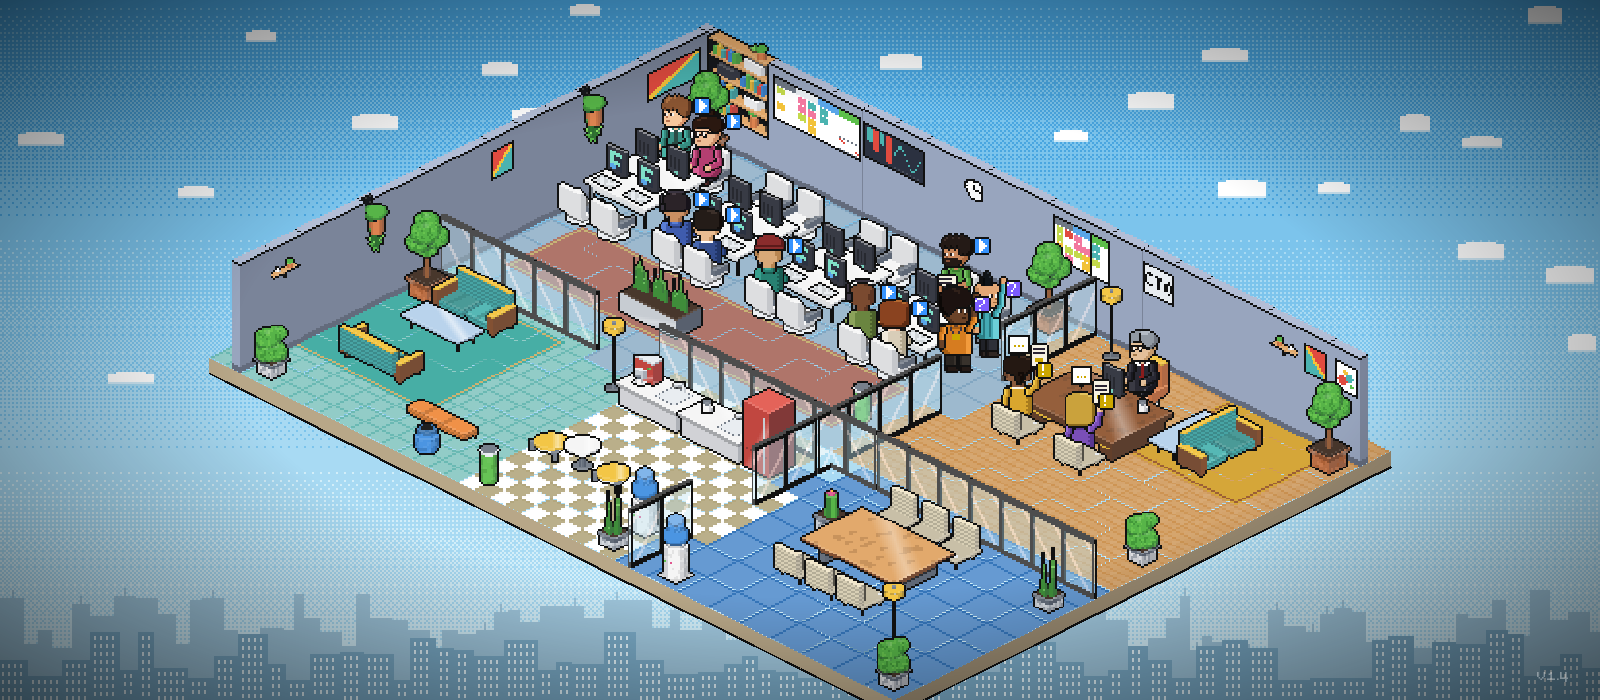
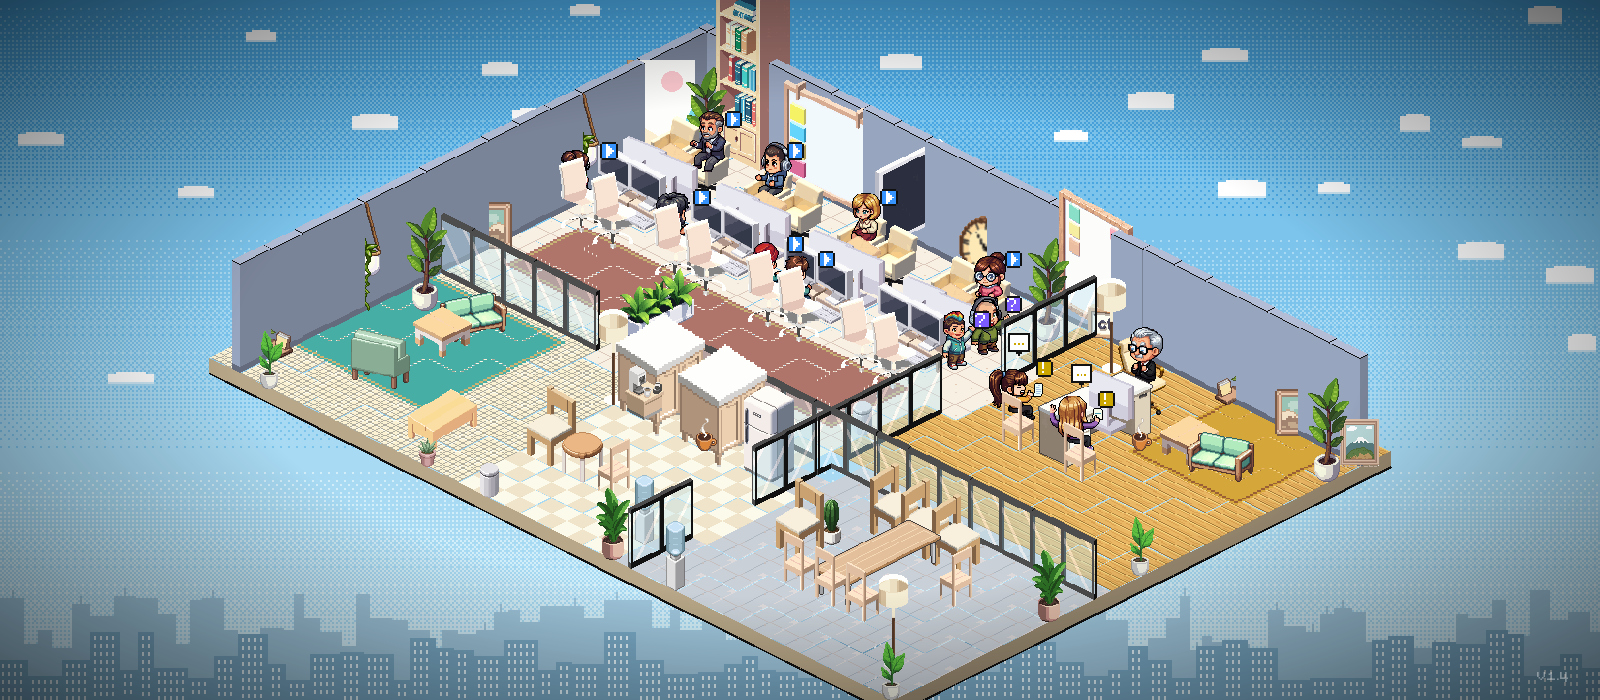
docs: switch the art direction to PixelLab-generated art
Furniture, characters and floors are now generated by PixelLab from
text prompts and seeds recorded in scripts/pixellab/furniture.json,
cast.json and floors.json, not drawn by code or styled after a
reference game. The room shell (walls, floor slab, backdrop) stays
procedural at runtime. Removes every habboassets.com/habbo.com
reference and the Habbo framing from the note, replaces the office
and character reference screenshots, and records the PixelLab
licence decision: the generating account owns its outputs and can
ship them under this repo's MIT licence.

Refs #38

Changed region(s): [[0.125, 0.0, 0.875, 1.0], [0.1562, 0.36, 0.1875, 0.39]]

diff --git a/docs/art-direction.md b/docs/art-direction.md
@@ -6,20 +6,20 @@ The target look for everything drawn in the office: the background, the room she
 
 ## Decisions
 
-- **Everything stays generated from code.** Characters, furniture and floors are written by `scripts/iso-art/` (`npx tsx scripts/iso-art/generate.ts`), the walls, the floor slab and the background are drawn procedurally at runtime (`webview-ui/src/office/isoWalls.ts`, `backdrop.ts`). No hand-drawn sheets and no third-party asset packs: the generator keeps every asset reviewable as a diff, reproducible, and free of licence questions.
-- **The office is a Habbo Hotel room, and no Habbo asset is copied.** Habbo Hotel is the reference for everything on screen: the daylight hotel view behind the room, the thick floor slab and its tile grid, the tall thin wallpapered walls, the glossy chunky furniture, the big-headed figures and the white rounded windows of the client. [habboassets.com](https://www.habboassets.com/) is the reference library because it renders every item at Terrarium's own tile size. It is a community mirror, unaffiliated with Sulake, and the art belongs to Sulake: no Habbo pixel is traced, sampled, downloaded into the repository, shipped in the npm tarball or the Docker image, or fetched at runtime. The references below are looked at, never used as input to a generator.
-- **Daylight.** Habbo's hotel view is a sunny sky over a city, so the night office and its indigo skyline are gone. The room is evenly lit, colours are bright and saturated, and every object is held together by a black line.
+- **Furniture, characters and floors are AI-generated with PixelLab; the room shell is drawn procedurally at runtime.** Each of the 38 furniture ids, each of the 12 workers plus the CTO, and each of the 9 floor materials is generated by [PixelLab](https://pixellab.ai) from a text description and a seed, recorded in `scripts/pixellab/furniture.json`, `scripts/pixellab/cast.json` and `scripts/pixellab/floors.json` respectively, not drawn by code. `scripts/pixellab/generate.ts`, `furniture.ts` and `floors.ts` call PixelLab and pack the raw frames into the bundled sheets. The walls, the floor slab and the background stay procedural at runtime (`webview-ui/src/office/isoWalls.ts`, `backdrop.ts`): no hand-drawn sheets and no third-party asset packs for those either.
+- **Nothing is copied from another game, and nothing is fetched at runtime.** Every generated asset is PixelLab's own output from Terrarium's own prompts, not traced, sampled or styled after a reference image. PixelLab's terms of service give the generating account ownership of its outputs and a commercial licence to them, so the art ships under this repo's own MIT licence, in the npm tarball and the Docker image, with no shim and no attribution requirement beyond PixelLab's own branding in this document.
+- **Cozy modern office.** Light wood tones, white and soft pastel colours, plants, clean minimalist shapes, soft daylight. Furniture and floors share one prompt suffix so every generated item reads as one room; characters share their own suffix so the whole cast reads as one style.
 - **Readable first.** A viewer across the room must tell who is working, who is waiting and who needs approval without reading a badge.
 
 ## Pixel grid and projection
 
-- 2:1 isometric, drawn at **Habbo's normal zoom**: a floor tile is a 64×32 diamond in art pixels. The world keeps its 32×16 grid units, and every sprite is authored at `ART_SCALE` (2) art pixels per world unit and drawn at half size, so the layout, the footprints and the simulation are unchanged while the art gets Habbo's full detail. Heights in world units: desk tops at 12, chair seats at 6, back walls 56 tall, glass partitions 30 (twice that in art pixels).
-- Nearest-neighbour sampling only. No anti-aliasing, no blur, no sub-pixel placement, no smooth gradients. Shading comes in hard bands, and the only blend between two bands is an ordered dither.
-- Every outline and detail is one art pixel, half a world unit, like Habbo's 1 px line at its normal zoom. Never scale a sprite inside its sheet.
+- 2:1 isometric: a floor tile is a 64×32 diamond in art pixels. The world keeps its 32×16 grid units, and every generated sprite is authored at `ART_SCALE` (2) art pixels per world unit and drawn at half size, so the layout, the footprints and the simulation are unchanged while the art carries full PixelLab detail. Heights in world units: desk tops at 12, chair seats at 6, back walls 56 tall, glass partitions 30 (twice that in art pixels).
+- Nearest-neighbour sampling only. No anti-aliasing, no blur, no sub-pixel placement, no smooth gradients. Shading comes in hard bands on the room shell, and PixelLab's own `medium shading` setting on furniture and characters.
+- Every outline and detail is one art pixel, half a world unit. Never scale a sprite inside its sheet.
 
 ## Background
 
-Habbo's hotel view by day, drawn by `backdrop.ts`:
+A sunny sky and a daytime city, drawn by `backdrop.ts`:
 
 - **Sky** in hard horizontal bands, `#4aa6e0` at the top through `#7cc4ec` and `#a8daf3` to `#d2eef9` at the horizon.
 - **Clouds**: flat white `#ffffff` puffs with a `#cfe9f7` underside, stepped like pixel art, never round gradients.
@@ -27,7 +27,7 @@ Habbo's hotel view by day, drawn by `backdrop.ts`:
 
 ## Light
 
-One key light from the screen's upper left, softer than a night interior because the room is daylit.
+One key light from the screen's upper left.
 
 | Surface                                       | Brightness |
 | --------------------------------------------- | ---------- |
@@ -35,27 +35,27 @@ One key light from the screen's upper left, softer than a night interior because
 | Left faces (facing +row, screen lower left)   | 80%        |
 | Right faces (facing +col, screen lower right) | 60%        |
 
-- **Shadows shift toward a cool grey-blue `#2c3446`**, never toward black. Brightness is quantized into bands (`lit()` in `scripts/iso-art/lib/scene.ts`).
-- **Gloss**: Habbo plastic, lacquer and screens carry a white highlight streak or a lighter rim on their top front edges.
+- **Shadows shift toward a cool grey-blue `#2c3446`**, never toward black. The room shell (walls, floor slab, glass partitions) quantizes brightness into hard bands; furniture's shading is PixelLab's own `medium shading` setting instead.
+- **Gloss**: the room shell's lacquered edges carry a white highlight streak or a lighter rim on their top front edges.
 - **Contact shadows**: characters stand on a translucent `#00000033` iso ellipse, furniture casts its traced shadow on the floor.
 
 ## Outline
 
-- **Ink is `#111111`**, Habbo's near-black line. It outlines characters, furniture, badges, bubbles, windows and the floor slab.
-- **Characters** get a full 1 px outline, including the inner line between parts that overlap (an arm over the torso, the shirt hem over the trousers, a hand over a sheet).
-- **Furniture** gets a full 1 px outline: every silhouette pixel is ink. Where one part passes in front of another the edge is a dark line, the colour mixed 65% toward ink. Edges between two faces of the same box are drawn by the light bands.
-- **Floors** draw their tile grid instead of an outline. **Walls** get an ink line along the top edges of the cap.
+- **Ink is `#111111`.** It outlines characters, furniture, badges, bubbles, windows and the floor slab.
+- **Characters** get a full 1 px black outline: PixelLab is generated with `outline: single color black outline`, so the silhouette and the lines between overlapping parts (an arm over the torso, a hand over a held sheet) come out of the model, not hand-drawn.
+- **Furniture** gets a full 1 px outline: PixelLab is generated with `outline: single color outline`, so the silhouette and the lines between overlapping parts come out of the model, not hand-drawn.
+- **Floors** carry each material's own grid (grout, plank seams, brick coursing, checker squares) baked into the PixelLab art instead of a drawn outline. **Walls** get an ink line along the top edges of the cap.
 
 ## Room shell
 
-- **Floor tiles** read as Habbo's grid: every tile is flat colour with a 1 px darker seam along its two upper edges, so the room shows its diamonds. `floor_0`–`floor_8` keep their index-to-material mapping (`floor_0` plain, `floor_1` large pale tile, `floor_2` large tile with dark grout, `floor_3` small tile, `floor_4` wood planks, `floor_5` running-bond brick, `floor_6` aligned brick, `floor_7` fine checkerboard, `floor_8` coarse checkerboard), each flat between its seams, only wood carrying grain. They are generated by `scripts/iso-art/floors.ts`.
-- **Floor slab**: the room stands on an 8 px thick slab, like Habbo's floor edge: the left face a little darker than the floor, the right face darker still, outlined in ink along the bottom.
-- **Back walls** are thin and tall like Habbo's: 56 px high and 4 world units thick, standing on the inner edge of their tile so wall items keep hanging on the same face. Flat wallpaper faces (left face 92%, right face 74% of the wall colour), a narrow cap at 115% with the ink line on its outer top edges, and a 3 px skirting board at 60%.
+- **Floor tiles** read as a grid through each material's own baked-in pattern (grout lines, plank seams, brick coursing, checker squares), projected onto a 64×32 diamond at render time. `floor_0`–`floor_8` keep their index-to-material mapping (`floor_0` plain polished slab, `floor_1` large pale tile, `floor_2` large tile with dark grout, `floor_3` small tile, `floor_4` wood planks, `floor_5` running-bond brick, `floor_6` aligned brick, `floor_7` fine checkerboard, `floor_8` coarse checkerboard). They are [PixelLab](https://pixellab.ai) `tiles-pro` renders, generated and packed by `scripts/pixellab/floors.ts`; a room's `tileColors` entry tints a material with Adjust-mode HSL shifts, or leaves it untouched at `{h:0,s:0,b:0,c:0}`.
+- **Floor slab**: the room stands on an 8 px thick slab: the left face a little darker than the floor, the right face darker still, outlined in ink along the bottom.
+- **Back walls** are thin and tall: 56 px high and 4 world units thick, standing on the inner edge of their tile so wall items keep hanging on the same face. Flat wallpaper faces (left face 92%, right face 74% of the wall colour), a narrow cap at 115% with the ink line on its outer top edges, and a 3 px skirting board at 60%.
 - **Glass partitions** stand 30 px high, an ink frame, a light cyan pane at 40% opacity and a white diagonal sheen.
 
 ## Palette
 
-Base colours are the fully lit tone. Side tones come from the light. Habbo's colours are bright: keep bases light to mid and saturated.
+Base colours are the fully lit tone. Side tones come from the light. Keep bases light to mid and softly saturated, never garish.
 
 | Role                | Colours                                                                           |
 | ------------------- | --------------------------------------------------------------------------------- |
@@ -82,55 +82,54 @@ Base colours are the fully lit tone. Side tones come from the light. Habbo's col
 
 ## Characters
 
-A frame is 64×112 art pixels, Habbo's 64×110 figure frame rounded to an even height. The feet touch the bottom centre of the frame, on a translucent iso ellipse.
+A frame is 96×96 art pixels, sized to fit PixelLab's native 88×88 animation frames with headroom for a raised hand or a held-up form. The feet touch a shared baseline near the bottom of the frame, on a translucent iso ellipse.
 
-**Proportions**, measured on Habbo figures at their normal size: about 80 art px from crown to sole. A big head about 32 px tall including the hair and about 26 px wide, a torso about 30 px including the slanted hem, short legs about 16 px on 4 px shoes. The head and the torso are about the same width: a Habbo figure is a block body under a block head, not a tapering one.
+**Generated, not drawn.** Each of the 12 workers and the CTO is a [PixelLab](https://pixellab.ai) character, not a figure composed from parts: a standing character and a seated state, each generated from a text description (hair, skin tone, build, outfit and a dominant outfit colour distinct from every other worker's), in both `south-west` (DOWN) and `north-east` (UP) facings. The whole cast shares one prompt suffix so the style matches: chunky cute proportions, an oversized round head on a small simple body, a cheerful friendly expression, a cozy modern office worker, clean flat colours, charming pixel art style. `scripts/pixellab/cast.json` records every description, seed and PixelLab character/animation id; `scripts/pixellab/generate.ts` creates and downloads the raw frames and `scripts/pixellab/pack.ts` composes them into the bundled sheets.
 
-**Construction.** The torso is a small iso box, a lit front face and a narrow shaded side face, with sleeves that end in cuffs, and the shirt hem runs down at the iso slope. Arms are about 6 px wide and hang at the sides with skin hands. The legs are two columns, the far one behind, the shoes flat pale iso blocks. The head is turned 3/4 toward where the figure faces: both eyes on that half of the face, each a white with a dark pupil glancing toward the facing side under a hair-coloured brow, a short nose line, a small mouth, the ear on the far side, the jaw narrowing to a chin on the facing side. Skin and cloth shade in hard bands, and hair is a big clumped shape with dark strands and a highlight.
+**Seated pose, no props.** The seated state is PixelLab's own edit of the standing character (`seatedStateEditDescription`): both legs symmetric mirror images, both feet flat on the floor side by side, both knees bent at the same right angle, back straight, facing forward, chair not drawn (the layout's own chair art sits under it). Every seated animation (`type`, `read`, `rest`, `waveSeated`, `holdFormSeated`) keeps that same body and head fixed in place: no new object, no desk, no keyboard, no monitor, no furniture and no held prop ever enters frame, only the hands move. `pack.ts`'s growth guard (`PROP_GROWTH_THRESHOLD`) measures each animation's opaque pixel area against its first frame and fails the build if any direction's area grows past 145% of it, catching a prop the model slipped into a later frame before it reaches a bundled sheet.
 
-**Parts.** A figure is composed from parts, the way Habbo composes one from `hd`, `ch`, `lg` and `sh`: legs and shoes, a torso with its outfit cut, two arms posed by the frame, a head, hair, and one accessory, all drawn by `scripts/iso-art/characters.ts` and `scripts/iso-art/characters/`.
+**Views.** Row 0 faces DOWN (screen lower left, PixelLab's `south-west`), row 1 faces UP (screen upper right, PixelLab's `north-east`), row 2 faces RIGHT and is row 0 mirrored. LEFT is row 1 mirrored at runtime.
 
-**Views.** Row 0 faces DOWN (3/4 front, screen lower left), row 1 faces UP (3/4 back, screen upper right), row 2 faces RIGHT and is row 0 mirrored. LEFT is row 1 mirrored at runtime. Habbo draws eight directions, but Terrarium moves on the tile grid, so four facings are enough.
+**Poses.** Every sheet carries the same 23 frames, in this order (`CHARACTER_FRAMES` in `core/src/assets/constants.ts`):
 
-**Poses.** Every sheet carries the same frames, in this order (`CHARACTER_FRAMES` in `core/src/assets/constants.ts`):
+| Frames                                | Pose                                                                                                      | Used for                                         |
+| ------------------------------------- | --------------------------------------------------------------------------------------------------------- | ------------------------------------------------ |
+| `walk1` `walk2` `walk3`               | walk cycle, `walk2` is the passing pose                                                                   | walking                                          |
+| `type1` `type2` `type3` `type4`       | seated, typing on an invisible keyboard, calm 4-frame loop with subtle hand motion over a fixed body/head | writing tools                                    |
+| `read1` `read2` `read3` `read4`       | seated, reading a held sheet, calm 4-frame loop with subtle hand motion over a fixed body/head            | reading tools                                    |
+| `idle1` `idle2`                       | standing, breathing gently                                                                                | standing idle                                    |
+| `rest1` `rest2`                       | seated, leaning back relaxed, eyes closed                                                                 | lounge sofas, resting at a desk, the CTO's couch |
+| `raiseHand1` `raiseHand2`             | standing, one hand raised above the head, waving                                                          | waiting for input, at the CTO's door             |
+| `raiseHandSeated1` `raiseHandSeated2` | seated, one hand raised above the head, waving                                                            | waiting for input, on a CTO visitor chair        |
+| `holdForm1` `holdForm2`               | standing, holding a sheet of paper up high on the opposite side from the waving hand                      | needs approval, at the CTO's door                |
+| `holdFormSeated1` `holdFormSeated2`   | seated, holding a sheet of paper up high, opposite side                                                   | needs approval, on a CTO visitor chair           |
 
-| Frames                                | Pose                                                                | Used for                                         |
-| ------------------------------------- | ------------------------------------------------------------------- | ------------------------------------------------ |
-| `walk1` `walk2` `walk3`               | walk cycle, `walk2` is the passing pose                             | walking                                          |
-| `type1` `type2`                       | seated, hands on the keyboard                                       | writing tools                                    |
-| `read1` `read2`                       | seated, holding a sheet                                             | reading tools                                    |
-| `idle1` `idle2`                       | standing, breathing: the second frame exhales one pixel lower       | standing idle                                    |
-| `rest1` `rest2`                       | seated, leaning back, hands in lap, eyes closed on the second frame | lounge sofas, resting at a desk, the CTO's couch |
-| `raiseHand1` `raiseHand2`             | standing, one hand raised, waving                                   | waiting for input, at the CTO's door             |
-| `raiseHandSeated1` `raiseHandSeated2` | seated, one hand raised, waving                                     | waiting for input, on a CTO visitor chair        |
-| `holdForm1` `holdForm2`               | standing, holding up a form with an amber mark                      | needs approval, at the CTO's door                |
-| `holdFormSeated1` `holdFormSeated2`   | seated, holding up a form with an amber mark                        | needs approval, on a CTO visitor chair           |
+Seated frames put the hips at the chair's seat height (`SEAT_RAISE_ART_PX`, 12 art pixels, tuned by eye against the wooden chair's own seat height) and bend the legs forward; `CHARACTER_SITTING_OFFSET_PX` stays 0 because the seated pose is already drawn at chair height. Only working agents type or read. An agent that sits without working rests, and an agent that needs the human shows it with its body: a raised hand asks a question, a held-up form asks for a signature, on opposite sides so the two read apart from the front and the back.
 
-Seated frames put the hips on a chair seat at height 6 and bend the legs forward. Only working agents type or read. An agent that sits without working rests, and an agent that needs the human shows it with its body: a raised hand asks a question, a held-up form asks for a signature, on opposite sides so the two read apart from the front and the back.
-
-**Variety.** Twelve distinct workers ship (`char_0.png` to `char_11.png`), so a twelve-agent office has no two alike. Each one differs from every other in at least two of: build, hair, outfit cut, accessory, and its dominant outfit colour is distinct at 1×. Hue-shifted copies only appear from the thirteenth agent on. The CTO has a sheet of its own (`cto.png`) that no agent uses.
+**Variety.** Twelve distinct workers ship (`char_0.png` to `char_11.png`), so a twelve-agent office has no two alike: different hair, skin tone, build and outfit, each with its own dominant outfit colour distinct from every other worker's. Hue-shifted copies only appear from the thirteenth agent on. The CTO has a sheet of its own (`cto.png`) that no agent uses.
 
 ## Furniture
 
-- Modelled as primitives (boxes, cylinders, spheres) and ray traced by `IsoScene` (`scripts/iso-art/lib/scene.ts`), which applies the light, the shadow tint, the ink outline, the fabric dither and the gloss. Colours come from `PAL` (`scripts/iso-art/lib/palette.ts`).
-- The shapes are Habbo's: chunky, rounded where Habbo rounds (plastic shells, cushions, lamp shades), glossy plastic and lacquer, saturated colour, and a 1 px checker dither on upholstery.
-- An item with footprint fw×fh is `(fw+fh)*16` px wide and its floor diamond touches the image's left, right and bottom edges.
-- Electronics have an off and an on state. Screens glow `#7fe0c8` or `#5aa6e8` when on.
+**Generated, not drawn.** Each of the 38 furniture ids is a [PixelLab](https://pixellab.ai) map-object render, not a primitive ray traced by code: a `front` view (and, for desks, chairs and the sofa, a `back` view) generated from a text description, mirrored into `right`/`left`. `scripts/pixellab/furniture.json` records every prompt, seed and PixelLab object id; `scripts/pixellab/furniture.ts` generates, crops and packs the art.
+
+- **Style**: cozy modern office pixel art, light wood tones, white and soft pastel colours, clean minimalist shapes, soft daylight, the same outline and shading settings for every item so the set reads as one room.
+- An item with footprint fw×fh is `(fw+fh)*16` px wide and its floor diamond touches the image's left, right and bottom edges, trimmed and centred from the generated render (never smooth-scaled; an integer upscale only if PixelLab placed the object small within its canvas).
+- Electronics have an off and an on state, chained from the off render via `init_image` so the lit frame stays visually close to the dark one.
 
 ## The office
 
-The default office (`scripts/iso-art/layout.ts`) is one Habbo room plan with themed areas, each with its own floor and colours: an open work area, the CTO's office, a lounge, a break corner with the coffee machine, a meeting room. Rooms are separated by glass partitions, the back walls carry wallpaper and wall items, plants and rugs break up the floor.
+The default office (`scripts/iso-art/layout.ts`) is one room plan with four themed areas, each with its own floor and colours: an open work area, the CTO's office, a lounge and break corner with the coffee machine, a meeting room. Rooms are separated by glass partitions, the back walls carry wallpaper and wall items, plants and rugs break up the floor.
 
 ## Badges and bubbles
 
 - Small sprites (9×9 for badges, 11×13 for bubbles), `webview-ui/src/office/sprites/status-*.json` and `bubble-*.json`, drawn in ink `#111111`. They float at the head: a badge beside it, a bubble above the crown.
 - A **badge** is a filled state-colour plate with a white (`#ffffff`) glyph: ▶ working, ! needs approval, ? waiting for input, ✓ done, Z idle.
-- A **bubble** is a white Habbo chat bubble with an ink outline and a tail pointing at the head, carrying the state colour in its glyph. The pet-petted heart bubble follows the same shape with its own pink (`#e64566`) glyph: it is a reaction, not a state indicator, so it sits outside the state-colour table.
+- A **bubble** is a white chat bubble with an ink outline and a tail pointing at the head, carrying the state colour in its glyph. The pet-petted heart bubble follows the same shape with its own pink (`#e64566`) glyph: it is a reaction, not a state indicator, so it sits outside the state-colour table.
 
 ## HUD
 
-- **The HUD is Habbo's client.** Modals and notices are Habbo windows: a white body, an ink border, a coloured title bar with white title text and a close button, rounded 4 px corners. Tooltips, toasts and in-world labels are small white rounded tags with an ink border, like Habbo's name tags. Buttons are Habbo's: light grey with an ink border, green for a confirming action.
-- **Font**: FS Pixel Sans, at the theme's pixel sizes. Habbo's own font is not used.
+- **Modals and notices** are app windows: a white body, an ink border, a coloured title bar with white title text and a close button, rounded 4 px corners. Tooltips, toasts and in-world labels are small white rounded tags with an ink border.
+- **Font**: FS Pixel Sans, at the theme's pixel sizes.
 - **Shape**: 1 px or 2 px ink borders, small rounded corners, hard offset shadows (`2px 2px 0px`) with no blur, and no gradients.
 - **Colours**: white, light grey, ink, the title bar blue `#2f80c0` and the state colours above. `npm run lint` enforces it: colour literals only in `constants.ts` and the CSS variables, pixel shadows, and the pixel font.
 
@@ -140,21 +139,13 @@ Terrarium's own renders:
 
 - [The default office](media/art-direction/office.png) at 1600×700 with twelve agents: five working, two needing approval, two waiting for input, three idle. This is the target state.
 - [The office before this direction](media/art-direction/office-before.png), same scene and size, for comparison.
-- [The twelve workers and the CTO](media/art-direction/characters.png), every frame of every sheet at 3×, one sheet per band (front, back and side rows).
-
-Habbo Hotel on [habboassets.com](https://www.habboassets.com/), looked at for style, never copied:
-
-- Figures: the [imager](https://www.habboassets.com/imager), for proportions (a 64×110 frame at the 64 px tile), the 3/4 head and the block body.
-- Rooms: the [web promos](https://www.habboassets.com/images/webpromo), for the floor grid, the slab, the walls and how a furnished room reads.
-- Outline and fabric: the [Silo sofa](https://www.habboassets.com/furniture/sofa_silo), [armchair](https://www.habboassets.com/furniture/sofachair_silo) and [chair](https://www.habboassets.com/furniture/chair_silo).
-- Gloss and hard surfaces: the [Silo table](https://www.habboassets.com/furniture/table_silo_med) and the [Plasto chair](https://www.habboassets.com/furniture/chair_plasto).
-- Plants: the [pineapple plant](https://www.habboassets.com/furniture/plant_pineapple).
+- [The twelve workers and the CTO](media/art-direction/characters.png), a contact sheet of all 13 generated character sheets.
 
 ## Checklist for new art
 
-1. Generated by `scripts/iso-art/` or drawn procedurally. Regenerating reproduces the committed assets with no diff.
-2. No Habbo asset, and nothing traced, sampled or fetched from habboassets.com or habbo.com.
+1. Furniture: generated by `scripts/pixellab/furniture.ts`, described and seeded in `scripts/pixellab/furniture.json`. Floors: generated by `scripts/pixellab/floors.ts`, described and seeded in `scripts/pixellab/floors.json`. Characters: generated by `scripts/pixellab/generate.ts` and packed by `scripts/pixellab/pack.ts`, described and seeded in `scripts/pixellab/cast.json`. A PixelLab rerun is not guaranteed byte-identical (the AI model is not deterministic) but keeps the same description, seed and framing.
+2. Nothing traced, sampled or copied from another game, and nothing fetched at runtime. Furniture, characters and floors are PixelLab's own generated art from Terrarium's own prompts.
 3. Daylit from the upper left, shadows toward `#2c3446`, colours from the palette above.
 4. Outlined in ink as the section above says for its kind, fabric dithered, plastic glossy.
-5. Characters: every frame of `CHARACTER_FRAMES` in all three rows, 64×112, feet at the bottom centre.
-6. Furniture: the footprint anchor contract above, and a bump of the default layout `REVISION` when the layout changes.
+5. Characters: every frame of `CHARACTER_FRAMES` in all three rows, 96×96, feet at the shared baseline, no prop in any seated animation (the growth guard catches a regression).
+6. Furniture: the footprint anchor contract above.
